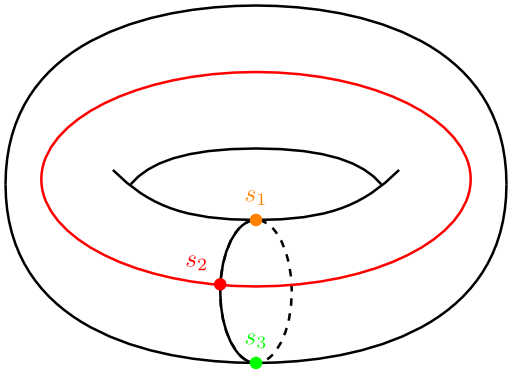
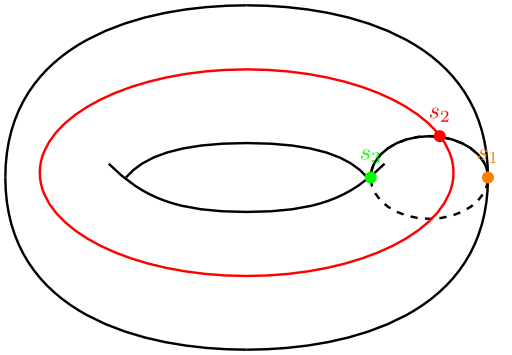
kleine Änderungen

diff --git a/tikz/torus-gauss-kruemmung/torus-gauss-kruemmung.tex b/tikz/torus-gauss-kruemmung/torus-gauss-kruemmung.tex
@@ -8,7 +8,6 @@
 \begin{document}
 \begin{tikzpicture}
 \tikzstyle{point}=[circle,thick,draw=black,fill=black,inner sep=0pt,minimum width=4pt,minimum height=4pt]
-
 \draw (-3.5,0) .. controls (-3.5,2) and (-1.5,2.5) .. (0,2.5);
 \draw[xscale=-1] (-3.5,0) .. controls (-3.5,2) and (-1.5,2.5) .. (0,2.5);
 \draw[rotate=180] (-3.5,0) .. controls (-3.5,2) and (-1.5,2.5) .. (0,2.5);
@@ -17,12 +16,12 @@
 \draw (-2,.2) .. controls (-1.5,-0.3) and (-1,-0.5) .. (0,-.5) .. controls (1,-0.5) and (1.5,-0.3) .. (2,0.2);
 \draw (-1.75,0) .. controls (-1.5,0.3) and (-1,0.5) .. (0,.5) .. controls (1,0.5) and (1.5,0.3) .. (1.75,0);
 
-\draw[dashed] (0,-1.5) ellipse (0.5cm and 1cm);
-\draw (0,-0.5) arc (-270:-90:0.5 and 1);
+\draw[dashed] (2.65,0) ellipse (0.85 and 0.6);
+\draw (3.5,0) arc (-360:-180:0.85 and 0.6);
 
-\node (s1)[point,orange,label={[label distance=0mm]90:\color{orange}$s_1$}] at (0,-0.5) {};
-\node (s2)[point,red,label={[label distance=0mm]120:\color{red}$s_2$}] at (-0.5,-1.4) {};
-\node (s3)[point,green,label={[label distance=0mm]90:\color{green}$s_3$}] at (0,-2.5) {};
+\node (s1)[point,orange,label={[label distance=0mm]\color{orange}$s_1$}] at (3.5,0) {};
+\node (s2)[point,red,label={[label distance=0mm]\color{red}$s_2$}] at (2.8,0.6) {};
+\node (s3)[point,green,label={[label distance=0mm]\color{green}$s_3$}] at (1.8,0) {};
 \draw[red] (0,0.07) ellipse (3cm and 1.5cm);
 \end{tikzpicture}
 \end{document}
